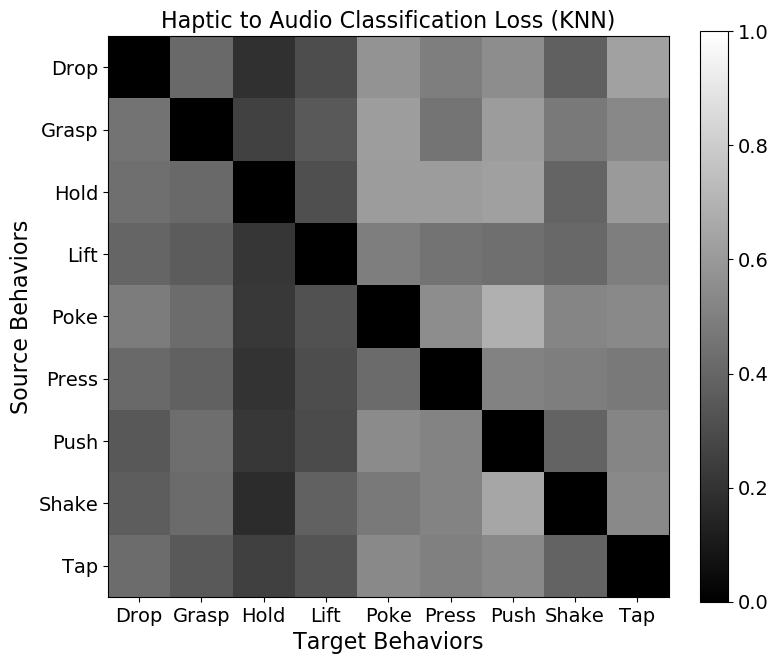
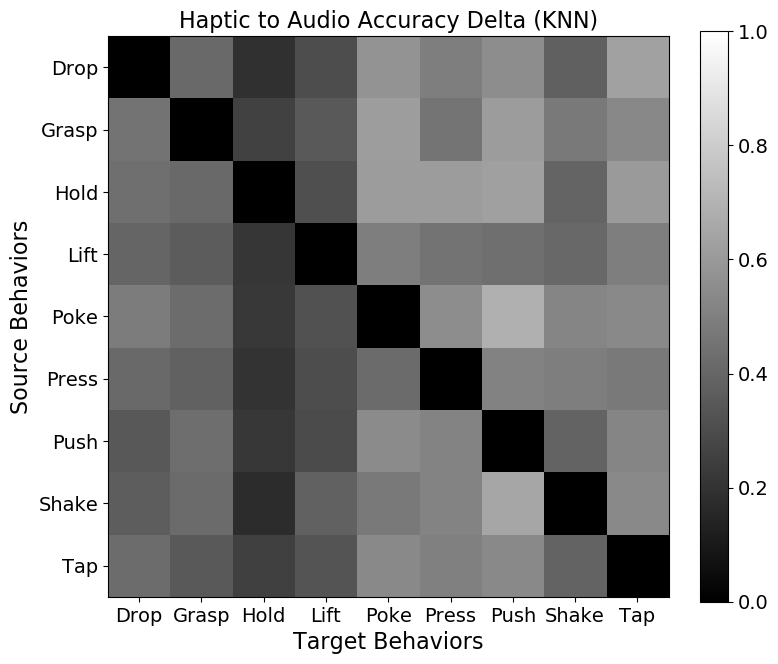
Updated results plots

Changed region(s): [[0.2159, 0.0, 0.8021, 0.0602]]

diff --git a/README.md b/README.md
@@ -49,8 +49,8 @@ data from the source context (i.e., how well it would do if it transfered knowle
 
 ### Accuracy
 
-<img src="Results/KNN/Top_5_Minimum_Classification_Loss_Mappings_(KNN).png" alt="drawing" width="600px"/>
-<img src="Results/KNN/Top_5_Maximum_Classification_Loss_Mappings_(KNN).png" alt="drawing" width="600px"/>
+<img src="Results/KNN/Top_5_Minimum_Accuracy_Delta_Mappings_(KNN).png" alt="drawing" width="600px"/>
+<img src="Results/KNN/Top_5_Maximum_Accuracy_Delta_Mappings_(KNN).png" alt="drawing" width="600px"/>
 
 ### RMSE loss vs Accuracy
 
@@ -71,8 +71,8 @@ data from the source context (i.e., how well it would do if it transfered knowle
 
 ### Accuracy
 
-<img src="Results/SVM/Top_5_Minimum_Classification_Loss_Mappings_(SVM).png" alt="drawing" width="600px"/>
-<img src="Results/SVM/Top_5_Maximum_Classification_Loss_Mappings_(SVM).png" alt="drawing" width="600px"/>
+<img src="Results/SVM/Top_5_Minimum_Accuracy_Delta_Mappings_(SVM).png" alt="drawing" width="600px"/>
+<img src="Results/SVM/Top_5_Maximum_Accuracy_Delta_Mappings_(SVM).png" alt="drawing" width="600px"/>
 
 ### RMSE loss vs Accuracy
 
